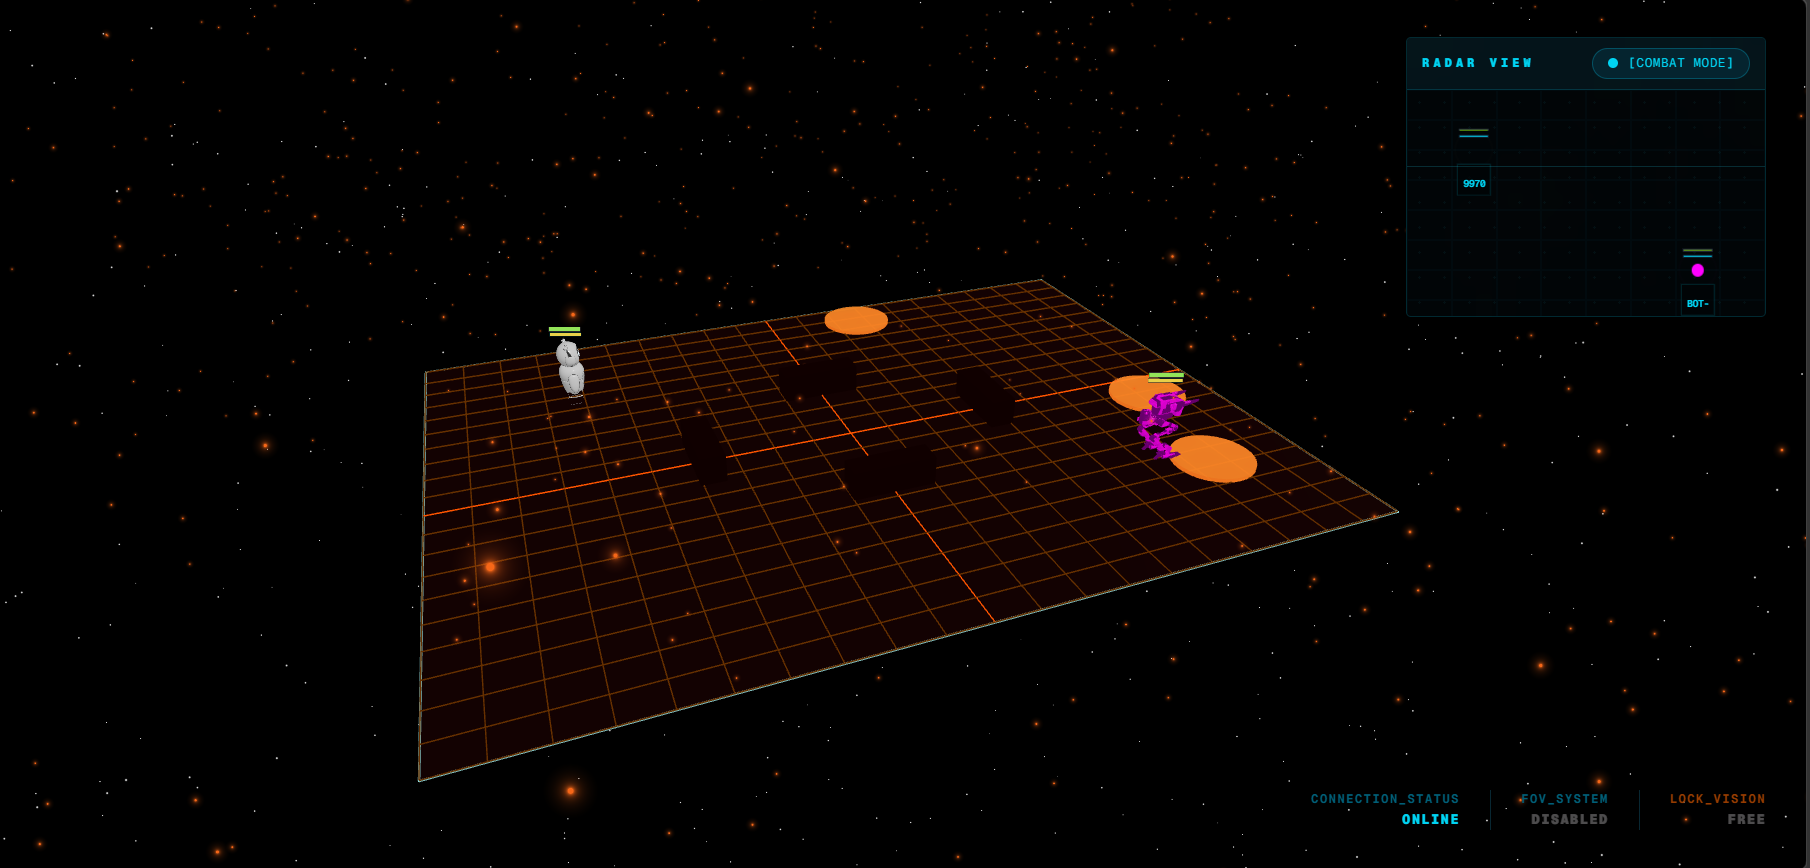
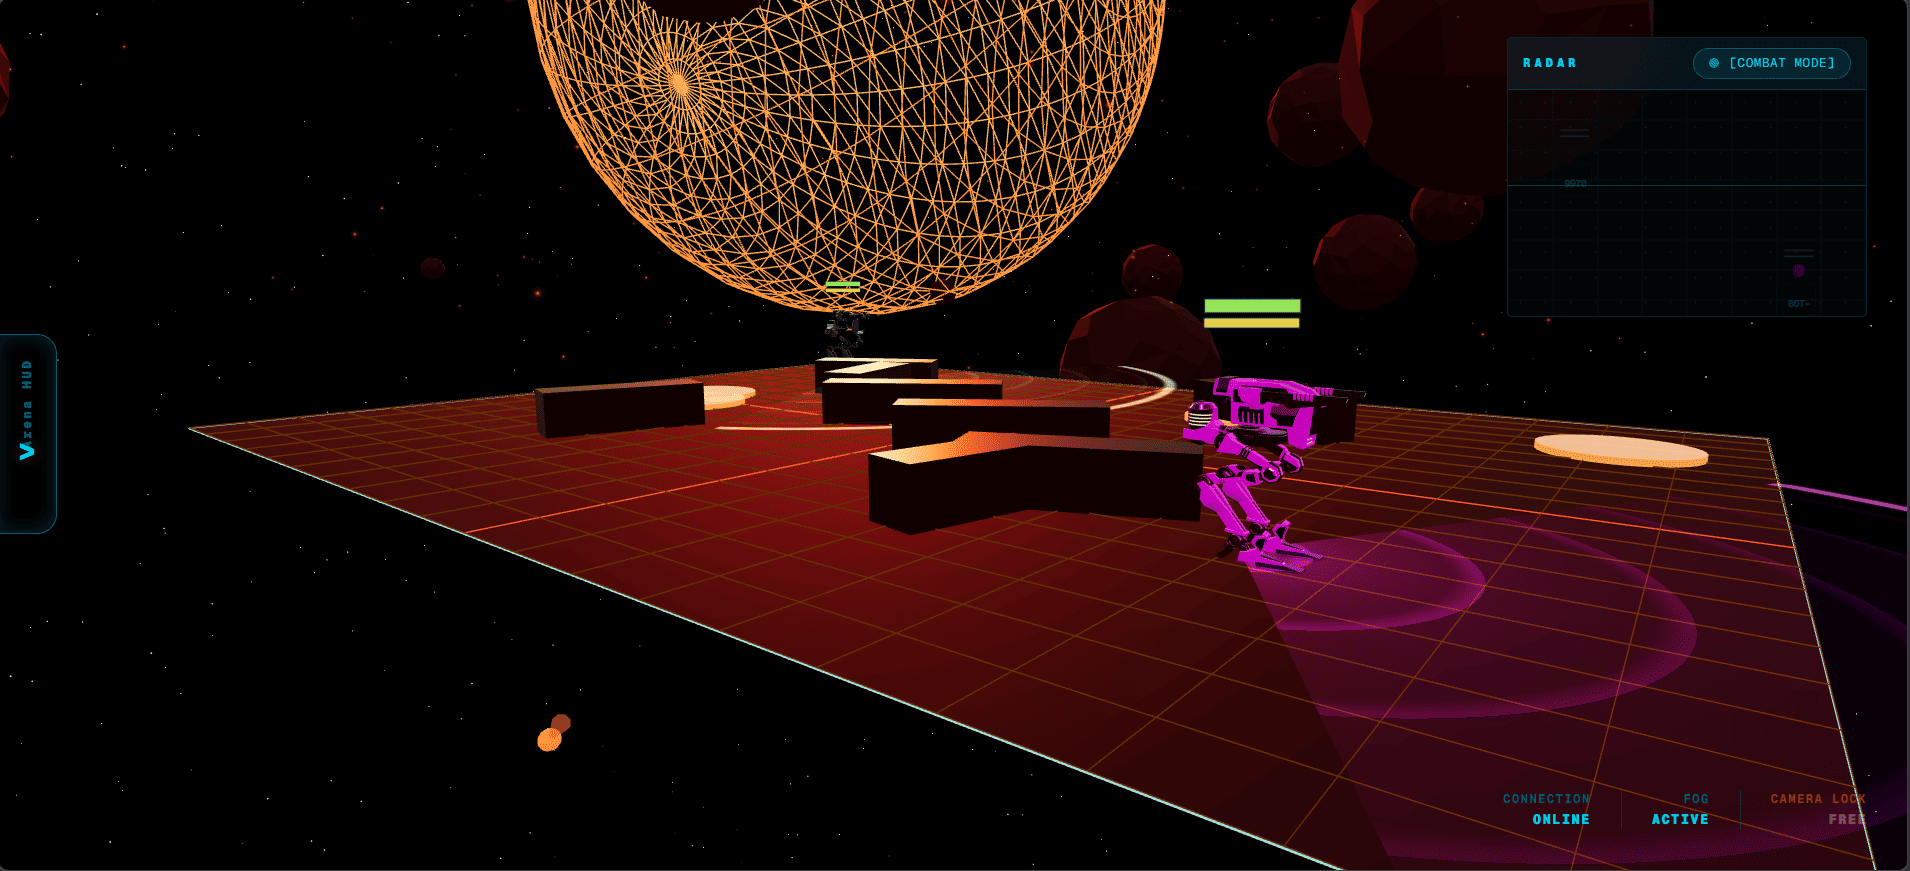
fix(mobile): resolve drag-and-drop, orientation, and audio bugs
- Fixed block dragging on touch devices by unifying dnd-kit sensors to PointerSensor and applying touch-action: none to drag handles.
- Locked initial PWA orientation to portrait via manifest.json and enforced strict viewport scaling rules to prevent iOS/Android zoom layout shifts.
- Unified Web Audio API contexts into a single global singleton, fixing suspended audio state bugs for combat/ambient sounds on mobile.
- Restored 3D spatial audio volume by routing directly to destination and added robust unmount error handling for AudioNodes.

diff --git a/apps/client/src/app/arena/hooks/useGameSounds.ts b/apps/client/src/app/arena/hooks/useGameSounds.ts
@@ -1,7 +1,7 @@
 "use client";
 
 import { useCallback, useRef } from "react";
-import { useSoundContext } from "../../../context/SoundContext";
+import { useSoundContext, getGlobalAudioContext, getGlobalMasterGain } from "../../../context/SoundContext";
 
 // ─── Web Audio helpers ────────────────────────────────────────────────────────
 // Re-use the same module-level AudioContext as SoundContext (same JS module
@@ -21,32 +21,9 @@ interface ToneStep {
   type: OscillatorType;
 }
 
-// Module-level AudioContext (shared with SoundContext singleton)
-let _audioCtx: AudioContext | null = null;
-let _masterGain: GainNode | null = null;
-
-interface WebKitAudioWindow extends Window {
-  webkitAudioContext?: typeof AudioContext;
-}
-
-function getArenAudioCtx(): AudioContext | null {
-  if (typeof window === "undefined") return null;
-  if (_audioCtx) return _audioCtx;
-
-  const w = window as WebKitAudioWindow;
-  const Ctor = window.AudioContext ?? w.webkitAudioContext;
-  if (!Ctor) return null;
-
-  _audioCtx = new Ctor();
-  _masterGain = _audioCtx.createGain();
-  _masterGain.gain.value = MASTER_GAIN;
-  _masterGain.connect(_audioCtx.destination);
-  return _audioCtx;
-}
-
 function playArenaSequence(steps: ToneStep[]): void {
-  const ctx = getArenAudioCtx();
-  const out = _masterGain;
+  const ctx = getGlobalAudioContext();
+  const out = getGlobalMasterGain();
   if (!ctx || !out) return;
   if (ctx.state === "suspended") void ctx.resume();
 

diff --git a/apps/client/src/app/arena/components/Scene3D/DynamicEnvironment.tsx b/apps/client/src/app/arena/components/Scene3D/DynamicEnvironment.tsx
@@ -4,20 +4,19 @@ import { useFrame, useThree } from "@react-three/fiber";
 import { Sparkles, Float, Cloud, Clouds, Billboard, Instances, Instance } from "@react-three/drei";
 import { Group, Mesh, MeshBasicMaterial, Vector3, Quaternion, AdditiveBlending, DoubleSide, InstancedMesh, Matrix4, Color, Euler, Object3D } from "three";
 import { MapTheme } from "../../types";
+import { getGlobalAudioContext, getGlobalMasterGain } from "../../../../context/SoundContext";
 
 interface DynamicEnvironmentProps {
   mapTheme: MapTheme;
   graphicsQuality?: string;
 }
 
-let ambientAudioCtx: AudioContext | null = null;
-function getAmbientCtx() {
-  if (typeof window === "undefined") return null;
-  if (ambientAudioCtx) return ambientAudioCtx;
-  const Ctor = window.AudioContext || (window as any).webkitAudioContext;
-  if (!Ctor) return null;
-  ambientAudioCtx = new Ctor();
-  return ambientAudioCtx;
+export function getAmbientCtx() {
+  return getGlobalAudioContext();
+}
+
+function getAmbientMasterGain() {
+  return getGlobalMasterGain();
 }
 
 interface AmbientSynthesizerProps {
@@ -41,6 +40,7 @@ const AmbientSynthesizer = ({ position, distanceFunc, type, maxDistance = 350, m
     
     const masterGain = ctx.createGain();
     masterGain.gain.value = 0;
+    // Connect directly to destination to avoid volume collapse from global master gain
     masterGain.connect(ctx.destination);
     gainNodeRef.current = masterGain;
 
@@ -195,7 +195,7 @@ const AmbientSynthesizer = ({ position, distanceFunc, type, maxDistance = 350, m
     return () => {
       document.removeEventListener("click", resumeIfSuspended);
       masterGain.gain.value = 0;
-      masterGain.disconnect();
+      try { masterGain.disconnect(); } catch (e) {}
       nodesToDisconnect.forEach(n => {
         try { n.disconnect(); } catch(e){}
         if ((n as OscillatorNode).stop) {

diff --git a/apps/client/src/context/SoundContext.tsx b/apps/client/src/context/SoundContext.tsx
@@ -41,8 +41,7 @@ function getAudioCtor(): typeof AudioContext | null {
   return window.AudioContext ?? w.webkitAudioContext ?? null;
 }
 
-function ensureAudioCtx(): AudioContext | null {
-  if (!unlocked) return null;
+export function getGlobalAudioContext(): AudioContext | null {
   if (audioCtx) return audioCtx;
   const Ctor = getAudioCtor();
   if (!Ctor) return null;
@@ -53,9 +52,13 @@ function ensureAudioCtx(): AudioContext | null {
   return audioCtx;
 }
 
+export function getGlobalMasterGain(): GainNode | null {
+  return masterGain;
+}
+
 function unlockAudio(): void {
   unlocked = true;
-  const ctx = ensureAudioCtx();
+  const ctx = getGlobalAudioContext();
   if (ctx?.state === "suspended") void ctx.resume();
   if (typeof window === "undefined") return;
   INIT_EVENTS.forEach((ev) => window.removeEventListener(ev, unlockAudio, true));
@@ -71,7 +74,7 @@ function installUnlockListeners(): void {
 }
 
 function playTone(steps: ToneStep[]): void {
-  const ctx = ensureAudioCtx();
+  const ctx = getGlobalAudioContext();
   const out = masterGain;
   if (!ctx || !out) return;
   if (ctx.state === "suspended") void ctx.resume();

diff --git a/apps/client/src/app/layout.tsx b/apps/client/src/app/layout.tsx
@@ -1,4 +1,4 @@
-import type { Metadata } from "next";
+import type { Metadata, Viewport } from "next";
 import { Space_Grotesk, Geist_Mono, Alexandria } from "next/font/google";
 import Script from "next/script";
 import "./globals.css";
@@ -111,6 +111,14 @@ export const metadata: Metadata = {
   verification: {
     google: "5N0GMr8mxTY9zb0A9rUhrHZo39jdVfRAbAM_h_FYcTg",
   },
+};
+
+export const viewport: Viewport = {
+  width: "device-width",
+  initialScale: 1,
+  maximumScale: 1,
+  userScalable: false,
+  viewportFit: "cover",
 };
 
 export default function RootLayout({

diff --git a/apps/client/src/app/arena/components/CommandConsole/BlockEditor/BlockEditor.tsx b/apps/client/src/app/arena/components/CommandConsole/BlockEditor/BlockEditor.tsx
@@ -213,9 +213,8 @@ export function BlockEditor({
   const [activePaletteType, setActivePaletteType] = useState<BlockType | null>(null);
   const isTouchDevice = useMediaQuery("(pointer: coarse)");
   
-  const mouseSensor = useSensor(PointerSensor, { activationConstraint: { distance: DRAG_DISTANCE_PX } });
-  const touchSensor = useSensor(TouchSensor, { activationConstraint: { delay: 200, tolerance: 5 } });
-  const sensors = useSensors(mouseSensor, touchSensor);
+  const pointerSensor = useSensor(PointerSensor, { activationConstraint: { distance: DRAG_DISTANCE_PX } });
+  const sensors = useSensors(pointerSensor);
   
   const generatedScript = useMemo(() => generateScript(blocks), [blocks]);
 

diff --git a/apps/client/src/app/arena/components/CommandConsole/BlockEditor/Block.tsx b/apps/client/src/app/arena/components/CommandConsole/BlockEditor/Block.tsx
@@ -235,6 +235,7 @@ export function Block({
               style={{
                 minHeight: ACTION_BUTTON_SIZE_PX,
                 minWidth: ACTION_BUTTON_SIZE_PX,
+                touchAction: "none",
                 color: "rgba(var(--arena-white-rgb),0.55)",
                 background: "rgba(var(--arena-white-rgb),0.06)",
                 border: "1px solid rgba(var(--arena-white-rgb),0.1)",